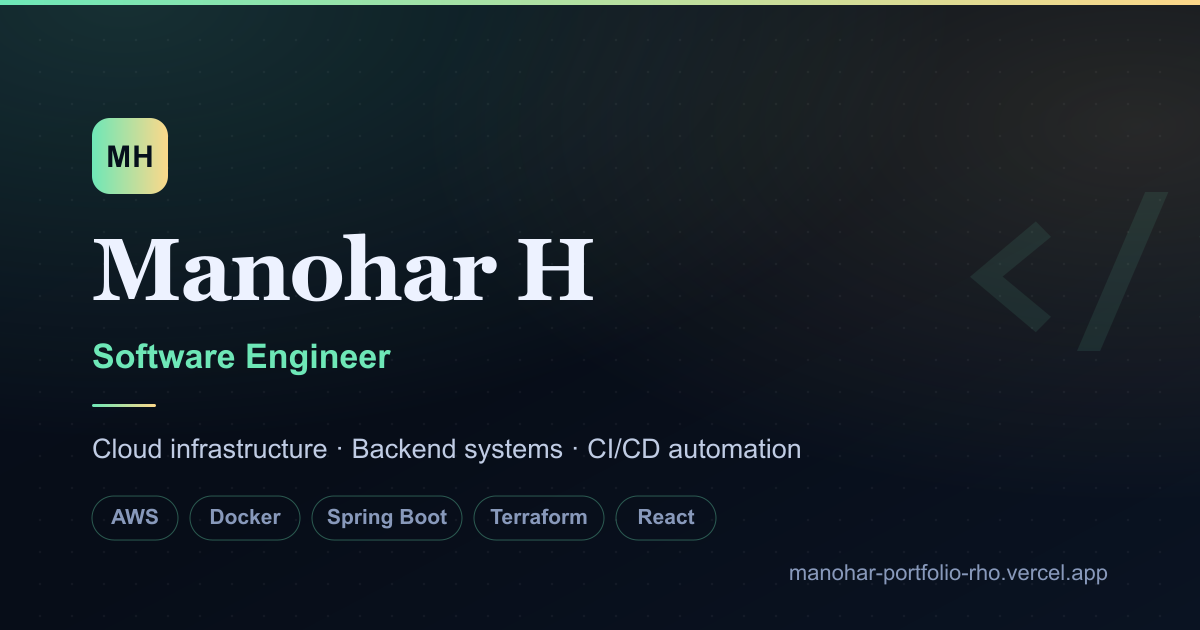
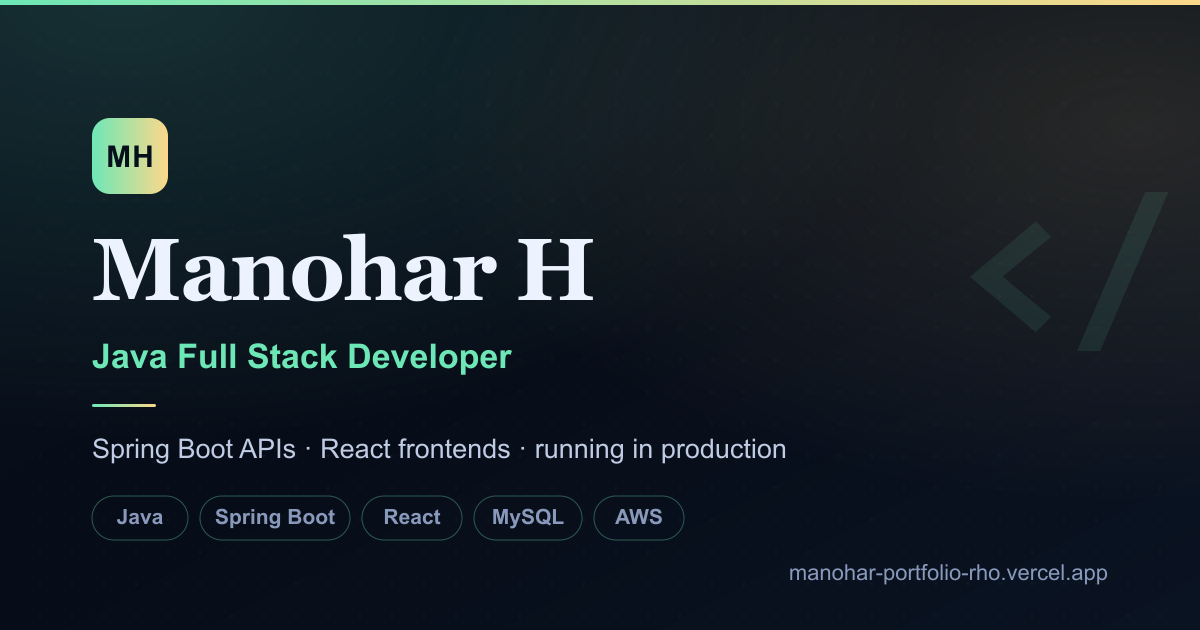
content: reposition portfolio as Java full stack developer
Reframes the site around Java/Spring Boot full stack work instead of the
previous cloud/DevOps angle, and replaces unverifiable metrics with
specifics that can be checked against the code.

- Title, meta, OG/Twitter tags and JSON-LD jobTitle updated to
  "Java Full Stack Developer"; knowsAbout reordered around the Java stack
- Hero, about, experience, skills, projects and contact copy rewritten
- Wipro entry now describes the actual OSDU platform work (Core Java,
  Spring Boot microservices, PostgreSQL)
- Project details replaced with concrete implementation facts: Viberent's
  10 controllers/11 services/5 repositories and its JPQL overlap query,
  Cloud File Manager's AWS SDK v2 S3 client, IPL simulator's squad rules
- Pro Cricket Auction Manager promoted from in-progress to a live demo
  (github now null, private repo); ProjectCard and ProjectModal guard the
  repository link so a null github no longer renders a broken href
- Dropped the "40% deployment improvement" and "50% shortlisting" claims
- Regenerated og-preview.png to match the new positioning

diff --git a/src/data/portfolio.js b/src/data/portfolio.js
@@ -100,15 +100,15 @@ export const projects = [
     title: 'IPL 2027 Retention Simulator',
     description:
       'Developed an interactive dashboard for the IPL 2027 mini-auction allowing users to plan squad retentions, manage purse balance, and export squad layouts.',
-    impact: 'Enables real-time roster building constraints and high-fidelity squad card exports.',
+    impact: 'Enforces real retention constraints live, across all 10 franchises at once.',
     tech: ['React 19', 'Vite', 'Framer Motion', 'GSAP', 'CSS'],
     image: iplRetentionImage,
     github: 'https://github.com/m-manu619/ipl-2027-retention-simulator',
     demo: 'https://ipl-2027-retention-simulator.vercel.app',
     categories: ['Frontend'],
     details: [
-      'Dynamic salary cap tracking (Rs 120 Crore) with real-time budget depletion alerts.',
-      'Supports RTM (Right to Match) logic rules and maximum player retention limits.',
+      'Enforces squad size 18–25, a maximum of 8 overseas players, a minimum of 17 Indians, and the projected purse cap.',
+      'Live violation detection with committed-versus-free purse tracking across all 10 franchises.',
       'High-fidelity HTML-to-image canvas generation for immediate social sharing.',
     ],
   },
@@ -116,34 +116,33 @@ export const projects = [
     title: 'Pro Cricket Auction Manager',
     description:
       'Real-time multiplayer T20 squad mock auction application supporting live player bidding lobbies, synchronized WebSockets, and dynamic AI bidding franchises.',
-    impact: 'Under active development; features a low-latency concurrent bidding engine and automated AI opponents.',
-    tech: ['React', 'Spring Boot', 'WebSockets', 'MySQL', 'Concurrency'],
+    impact: 'Live in production across 100+ deployments, with uptime monitoring, error tracking and automated tests.',
+    tech: ['React', 'Vite', 'WebSockets', 'Cloudflare Workers', 'Concurrency'],
     image: proCricketAuctionImage,
-    github: 'https://github.com/m-manu619/Pro_Cricket_Auction_Manager',
-    demo: null,
-    inProgress: true,
+    github: null,
+    demo: 'https://pro-cricket-auction-manager-client.vercel.app',
     categories: ['Frontend', 'Backend'],
     details: [
-      'Synchronized WebSockets bidding room with active user lobbies and bidding state machines.',
-      'Algorithmic AI franchises bidding dynamically based on budget constraints and squad needs.',
-      'Responsive concurrency handling with optimistic locking and Spring Boot backend.',
+      'Solo play against 9 AI franchises, or real-time rooms for up to 10 players with host controls, seat assignment and shareable invites.',
+      'WebSocket-synchronised room state across connected clients, backed by a Cloudflare Workers player-pool service and authenticated accounts.',
+      'Also ships a 25-pick snake draft into a full T20 season with fixtures, playoffs and standings over a 450+ player pool.',
     ],
   },
   {
     title: 'Viberent Booking Platform',
     description:
-      'Full-stack rental property booking application featuring secure JWT authentication, interactive property catalogs, and transactional booking workflows.',
-    impact: 'Implements role-based access control and robust backend state validation.',
-    tech: ['React', 'Spring Boot', 'MySQL', 'JWT Auth', 'REST API'],
+      'Full-stack property booking platform on Java and Spring Boot, with a layered controller/service/repository backend and a React + Vite frontend.',
+    impact: 'Date-overlap validation makes double-booking impossible rather than merely unlikely.',
+    tech: ['Java 21', 'Spring Boot', 'Spring Data JPA', 'MySQL', 'React'],
     image: viberentBookingImage,
     github: 'https://github.com/m-manu619/viberent-booking-platform',
     demo: null,
     categories: ['Frontend', 'Backend'],
-    architecture: ['React SPA', 'Spring Boot REST API', 'JWT Auth Layer', 'MySQL Database'],
+    architecture: ['React + Vite SPA', 'Spring Boot REST API', 'Service Layer', 'JPA Repositories', 'MySQL'],
     details: [
-      'Role-based page authorization (Admin / Guest / Vendor) using secure JWT tokens.',
-      'Interactive booking calendars with real-time property availability validation.',
-      'Relational database schema in MySQL mapping bookings, properties, and users.',
+      '10 REST controllers over 11 services and 5 JPA repositories, with a dedicated DTO layer and constructor injection throughout.',
+      'Custom JPQL date-range query rejects reservations overlapping an existing pending or confirmed stay; ownership checks return 403 on cross-user access.',
+      'Guest and admin flows: property search, booking and cancellation, review CRUD, and a payment confirmation workflow.',
     ],
   },
   {
@@ -166,17 +165,17 @@ export const projects = [
   {
     title: 'Cloud File Management System',
     description:
-      'Created a secure cloud file platform with access control, dependable storage workflows, and a user-friendly interface for file operations.',
-    impact: 'Improved usability while supporting secure storage and efficient file handling.',
-    tech: ['React', 'Spring Boot', 'AWS S3', 'IAM', 'Docker'],
+      'Spring Boot REST service for file upload and download backed by Amazon S3 through the AWS SDK, containerised with Docker.',
+    impact: 'Clean service/controller separation over the AWS SDK v2 S3 client.',
+    tech: ['Java', 'Spring Boot', 'AWS SDK v2', 'Amazon S3', 'Docker'],
     image: cloudFileImage,
     github: 'https://github.com/m-manu619/Cloud_File_Management_System',
     demo: null,
     categories: ['Backend', 'DevOps & Cloud'],
     details: [
-      'Secure file upload/download pipelines interacting with AWS S3 storage buckets.',
-      'Role-based file permission access control policies via Amazon IAM.',
-      'Robust file metadata indexing using Amazon DynamoDB document storage.',
+      'Multipart upload and download endpoints storing objects in S3 with UUID keys.',
+      'Content-type resolution on retrieval via an S3 head-object lookup.',
+      'Containerised with Docker; configuration injected through Spring properties.',
     ],
   },
   {
@@ -230,17 +229,16 @@ export const projects = [
   {
     title: 'Jenkins Declarative CI/CD Pipeline',
     description:
-      'Standardized template automating multi-stage pipelines (Build, Test, SonarQube Lint, Docker Package, and Deploy) with containerized execution.',
-    impact: 'Minimizes release friction by automating build-validation stages with agent-based runners.',
+      'Reusable declarative Jenkinsfile template laying out a multi-stage pipeline: Setup, Build, Test, Package and Deploy.',
+    impact: 'A starting scaffold for standardising pipeline structure across projects.',
     tech: ['Jenkins', 'Docker', 'Groovy', 'CI/CD', 'Automation'],
     image: jenkinsPipelineImage,
     github: 'https://github.com/m-manu619/jenkins',
     demo: null,
     categories: ['DevOps & Cloud'],
     details: [
-      'Standardized declarative Jenkinsfile implementing unit testing, lint check, and packaging.',
-      'Integrated with Docker agents to isolate compilation and test runtime runtimes.',
-      'Automated slack hook notifications triggered upon pipeline failures or success status.',
+      'Declarative pipeline syntax with clearly separated Setup, Build, Test, Package and Deploy stages.',
+      'Structured as a template to be adapted per project rather than a project-specific build.',
     ],
   },
   {
@@ -269,7 +267,7 @@ export const experience = [
     period: 'February 2024 – July 2024',
     highlights: [
       'Designed and deployed AWS environments using EC2, S3, and IAM for practical cloud solutions.',
-      'Improved deployment speed by 40% through CI/CD pipelines built with Jenkins and Docker.',
+      'Built CI/CD pipelines with Jenkins and Docker to cut manual deployment steps and shorten release cycles.',
       'Monitored and optimised cloud resources using CloudWatch to support stable operations.',
     ],
   },
@@ -279,9 +277,9 @@ export const experience = [
     location: 'Bengaluru, India',
     period: 'February 2022 – March 2023',
     highlights: [
-      'Supported production systems and resolved technical issues to keep platform operations smooth.',
-      'Built Spring Boot applications that improved response time and overall system efficiency.',
-      'Worked across teams to identify root causes, improve reliability, and streamline workflows.',
+      'Developed and integrated Java-based solutions for the OSDU platform — an open data standard for the oil and gas industry — in Core Java (Java 8+) with Spring Boot.',
+      'Built and deployed RESTful services within a microservices architecture, designing for modularity as requirements shifted across releases.',
+      'Managed PostgreSQL databases and root-caused critical production issues, restoring stability without introducing regressions.',
     ],
   },
 ];
@@ -295,13 +293,13 @@ export const certifications = [
 ];
 
 export const standoutPoints = [
-  'Delivered a 40% deployment speed improvement at Micro Degree through CI/CD pipeline automation',
-  'Built 10+ end-to-end projects spanning full-stack, cloud infrastructure, and AI — all on GitHub',
-  'Reduced candidate shortlisting effort by 50% with an NLP-powered AI resume screening tool',
-  'Shipped a live product (IPL 2027 Simulator) running 10,000+ Monte Carlo paths client-side in under 800ms',
+  'A year of professional Spring Boot work at Wipro on the OSDU platform, in Core Java and microservices',
+  'Runs a live multiplayer product in production — 100+ deployments with uptime monitoring, error tracking and automated tests',
+  'Layered Spring Boot architecture with a DTO layer and a JPQL query that makes double-booking impossible',
+  '10+ documented public repositories spanning Java full-stack, cloud infrastructure and NLP',
 ];
 
 export const marqueeItems = [
-  'AWS', 'Docker', 'Terraform', 'Spring Boot', 'CI/CD', 'Java',
-  'Python', 'React', 'Jenkins', 'PostgreSQL', 'DevOps', 'GitHub Actions',
+  'Java', 'Spring Boot', 'Spring Data JPA', 'REST APIs', 'React', 'Vite',
+  'MySQL', 'PostgreSQL', 'AWS', 'Docker', 'Jenkins', 'CI/CD',
 ];

diff --git a/src/App.jsx b/src/App.jsx
@@ -68,7 +68,7 @@ function App() {
   const stats = [
     { value: '2+', label: 'Years of experience' },
     { value: `${repoCount ?? 12}`, label: 'Public GitHub repositories' },
-    { value: '40%', label: 'Deployment improvement delivered' },
+    { value: '100+', label: 'Production deployments' },
   ];
 
   useEffect(() => {
@@ -213,16 +213,16 @@ function App() {
             <motion.div className="hero-copy" variants={heroLeft} initial="hidden" animate="visible">
               <motion.div variants={fadeUp} className="eyebrow">
                 <Sparkles size={16} />
-                Cloud, backend, and DevOps-focused engineer
+                Java full stack developer
               </motion.div>
 
               <motion.h1 variants={fadeUp}>
-                I build cloud systems, reliable APIs, and CI/CD pipelines that ship confidently.
+                I build things that run in production.
               </motion.h1>
 
               <motion.p variants={fadeUp} className="hero-summary">
-                I design dependable software across cloud infrastructure, backend systems, and
-                deployment automation — focused on reliability, speed, and measurable impact.
+                Layered Spring Boot APIs, React frontends, and the deployment that puts them in
+                front of people — with monitoring and tests once they are live.
               </motion.p>
 
               <motion.div variants={fadeUp} className="hero-actions">
@@ -254,21 +254,21 @@ function App() {
                   <div className="profile-placeholder-content">
                     <Code size={48} />
                     <span className="profile-placeholder-title">&lt; MANOHAR.DEV &gt;</span>
-                    <span className="profile-placeholder-sub">Cloud & DevOps Engineering</span>
+                    <span className="profile-placeholder-sub">Java · Spring Boot · React</span>
                   </div>
                 </div>
                 <div className="profile-badge">
-                  <span>Available for software roles</span>
+                  <span>Open to Java full stack roles</span>
                 </div>
               </div>
 
               <div className="hero-card hero-card-main">
                 <p className="hero-card-label">Current focus</p>
-                <h2>Building production-minded cloud and application systems.</h2>
+                <h2>Building and running full-stack applications end to end.</h2>
                 <ul className="hero-points">
-                  <li>AWS environment design and deployment workflows</li>
-                  <li>Backend engineering with Java, Python, and Spring Boot</li>
-                  <li>CI/CD pipelines, Docker, and infrastructure automation</li>
+                  <li>Layered Spring Boot REST APIs with Spring Data JPA and Hibernate</li>
+                  <li>React and Vite frontends with route guards and a single API layer</li>
+                  <li>AWS, Docker, and CI/CD so features reach production reliably</li>
                 </ul>
               </div>
 
@@ -300,25 +300,26 @@ function App() {
           <div className="container section-layout">
             <ScrollReveal className="section-heading">
               <span className="section-label"><span className="section-label-star">✦</span> About</span>
-              <h2>Software engineer bridging cloud infrastructure, backend systems, and DevOps automation.</h2>
+              <h2>Java full stack developer who cares about code that stays readable.</h2>
             </ScrollReveal>
             <div className="about-grid">
               <ScrollZoom className="panel panel-large">
                 <p>
-                  I&apos;m a detail-oriented software engineer with experience spanning technical
-                  support, cloud implementation, backend development, and delivery automation. I
-                  enjoy solving real operational problems and turning complex workflows into simpler,
-                  more dependable systems.
+                  Most of my work sits in Spring Boot — designing REST APIs, modelling data with
+                  Spring Data JPA and Hibernate, and keeping the boundaries between controllers,
+                  services and repositories clean enough that whoever reads the code next can
+                  follow it.
                 </p>
                 <p>
-                  My background combines hands-on engineering with stakeholder collaboration, which
-                  helps me build solutions that are both technically sound and practical for teams to
-                  use and maintain.
+                  My first year of that was at Wipro on the OSDU platform, mostly maintaining a
+                  live system rather than greenfield work — which taught me why some code is easy to
+                  change and some isn&apos;t. On the frontend I work in React with Vite, and I treat
+                  deployment and monitoring as part of the job rather than someone else&apos;s.
                 </p>
                 <div className="info-list">
                   <div><MapPin size={18} /><span>Hassan, Karnataka, India</span></div>
                   <div><GraduationCap size={18} /><span>B.E. in Computer Science</span></div>
-                  <div><Briefcase size={18} /><span>Experience across cloud, support, and software delivery</span></div>
+                  <div><Briefcase size={18} /><span>Ex-Wipro · Spring Boot on the OSDU platform</span></div>
                 </div>
               </ScrollZoom>
 
@@ -339,7 +340,7 @@ function App() {
           <div className="container section-layout">
             <ScrollReveal className="section-heading">
               <span className="section-label"><span className="section-label-star">✦</span> Experience</span>
-              <h2>Two years of industry experience across AWS, backend engineering, and CI/CD delivery.</h2>
+              <h2>Two years of industry experience in Java, Spring Boot, and production support.</h2>
             </ScrollReveal>
             <div className="timeline">
               {experience.map((job) => (
@@ -370,7 +371,7 @@ function App() {
           <div className="container section-layout">
             <ScrollReveal className="section-heading">
               <span className="section-label"><span className="section-label-star">✦</span> Skills</span>
-              <h2>A full-stack toolkit built for cloud-native development and reliable software delivery.</h2>
+              <h2>A Java full stack toolkit, from Spring Boot APIs through to React frontends.</h2>
             </ScrollReveal>
 
             <div className="skill-legend" aria-hidden="true">
@@ -422,7 +423,7 @@ function App() {
           <div className="container section-layout">
             <ScrollReveal className="section-heading">
               <span className="section-label"><span className="section-label-star">✦</span> Projects</span>
-              <h2>End-to-end projects spanning AI automation, cloud infrastructure, and DevOps pipelines.</h2>
+              <h2>Full-stack projects — Spring Boot services, React frontends, and the tooling around them.</h2>
             </ScrollReveal>
 
             <div className="filter-tabs">
@@ -471,7 +472,7 @@ function App() {
           <div className="container section-layout">
             <ScrollReveal className="section-heading">
               <span className="section-label"><span className="section-label-star">✦</span> Certifications</span>
-              <h2>Continuous learning across cloud architecture, machine learning, and data analytics.</h2>
+              <h2>Continuous learning across cloud architecture, machine learning, and analytics.</h2>
             </ScrollReveal>
             {['cert', 'sim'].map((type) => (
               <div key={type}>
@@ -497,13 +498,13 @@ function App() {
           <div className="container section-layout">
             <ScrollReveal className="section-heading">
               <span className="section-label"><span className="section-label-star">✦</span> Contact</span>
-              <h2>Let&apos;s talk — I&apos;m actively looking for software, cloud, and DevOps roles.</h2>
+              <h2>Let&apos;s talk — I&apos;m open to Java full stack and backend roles.</h2>
             </ScrollReveal>
             <ScrollZoom className="contact-band">
               <div>
                 <p>
-                  I&apos;m currently open to full-time roles in software engineering, cloud, or
-                  DevOps. Drop me a message — I respond within 24 hours.
+                  I&apos;m currently open to full-time Java full stack and backend roles. Drop me
+                  a message — I respond within 24 hours.
                 </p>
                 {formStatus === 'success' ? (
                   <div className="contact-success-box">

diff --git a/index.html b/index.html
@@ -4,8 +4,8 @@
     <meta charset="UTF-8" />
     <meta name="viewport" content="width=device-width, initial-scale=1.0" />
 
-    <title>Manohar H — Software Engineer · Cloud · DevOps · Backend</title>
-    <meta name="description" content="Portfolio of Manohar H — software engineer specialising in cloud infrastructure, backend systems, and CI/CD automation. AWS · Spring Boot · Docker · Terraform." />
+    <title>Manohar H — Java Full Stack Developer · Spring Boot · React</title>
+    <meta name="description" content="Portfolio of Manohar H — Java full stack developer building layered Spring Boot APIs and React frontends, and running them in production. Java · Spring Boot · React · AWS." />
     <meta name="author" content="Manohar H" />
     <meta name="robots" content="index, follow" />
     <meta name="theme-color" content="#070d18" />
@@ -19,16 +19,16 @@
     <!-- Open Graph / LinkedIn / Facebook -->
     <meta property="og:type" content="website" />
     <meta property="og:url" content="https://manohar-portfolio-rho.vercel.app/" />
-    <meta property="og:title" content="Manohar H — Software Engineer" />
-    <meta property="og:description" content="Cloud infrastructure, backend engineering, and CI/CD automation. Experienced with AWS, Docker, Spring Boot, and Terraform." />
+    <meta property="og:title" content="Manohar H — Java Full Stack Developer" />
+    <meta property="og:description" content="Java full stack developer. Spring Boot APIs, React frontends, and products running in production." />
     <meta property="og:image" content="https://manohar-portfolio-rho.vercel.app/og-preview.png" />
     <meta property="og:image:width" content="1200" />
     <meta property="og:image:height" content="630" />
 
     <!-- Twitter Card -->
     <meta name="twitter:card" content="summary_large_image" />
-    <meta name="twitter:title" content="Manohar H — Software Engineer" />
-    <meta name="twitter:description" content="Cloud infrastructure, backend engineering, and CI/CD automation." />
+    <meta name="twitter:title" content="Manohar H — Java Full Stack Developer" />
+    <meta name="twitter:description" content="Java full stack developer. Spring Boot APIs, React frontends, products in production." />
     <meta name="twitter:image" content="https://manohar-portfolio-rho.vercel.app/og-preview.png" />
 
     <link rel="icon" type="image/svg+xml" href="/favicon.svg" />
@@ -39,8 +39,8 @@
       "@context": "https://schema.org",
       "@type": "Person",
       "name": "Manohar H",
-      "jobTitle": "Software Engineer",
-      "description": "Software engineer specialising in cloud infrastructure, backend systems, and CI/CD automation.",
+      "jobTitle": "Java Full Stack Developer",
+      "description": "Java full stack developer building layered Spring Boot APIs and React frontends, and operating them in production.",
       "url": "https://manohar-portfolio-rho.vercel.app/",
       "email": "mailto:mmanohar619@gmail.com",
       "address": {
@@ -58,9 +58,9 @@
         "https://linkedin.com/in/manohar-h/"
       ],
       "knowsAbout": [
-        "AWS", "Docker", "Terraform", "Jenkins", "CI/CD",
-        "Java", "Spring Boot", "Python", "FastAPI",
-        "React", "JavaScript", "MySQL", "PostgreSQL", "Machine Learning"
+        "Java", "Spring Boot", "Spring Data JPA", "Hibernate", "REST APIs",
+        "React", "Vite", "JavaScript", "MySQL", "PostgreSQL",
+        "AWS", "Docker", "Jenkins", "CI/CD", "Python"
       ]
     }
     </script>

diff --git a/src/components/ProjectCard.jsx b/src/components/ProjectCard.jsx
@@ -32,9 +32,11 @@ function ProjectCard({ project, onOpen }) {
           <button type="button" className="button button-primary" onClick={() => onOpen(project)}>
             Details
           </button>
-          <a href={project.github} target="_blank" rel="noreferrer" className="button button-secondary">
-            <Github size={16} /> Code
-          </a>
+          {project.github && (
+            <a href={project.github} target="_blank" rel="noreferrer" className="button button-secondary">
+              <Github size={16} /> Code
+            </a>
+          )}
           {project.demo && (
             <a href={project.demo} target="_blank" rel="noreferrer" className="button button-ghost">
               <ExternalLink size={16} /> Demo

diff --git a/src/components/ProjectModal.jsx b/src/components/ProjectModal.jsx
@@ -97,9 +97,11 @@ function ProjectModal({ project, onClose }) {
           )}
 
           <div className="modal-footer">
-            <a href={project.github} target="_blank" rel="noreferrer" className="button button-primary">
-              <Github size={16} /> View Repository
-            </a>
+            {project.github && (
+              <a href={project.github} target="_blank" rel="noreferrer" className="button button-primary">
+                <Github size={16} /> View Repository
+              </a>
+            )}
             {project.demo && (
               <a href={project.demo} target="_blank" rel="noreferrer" className="button button-secondary">
                 <ExternalLink size={16} /> Live Demo
